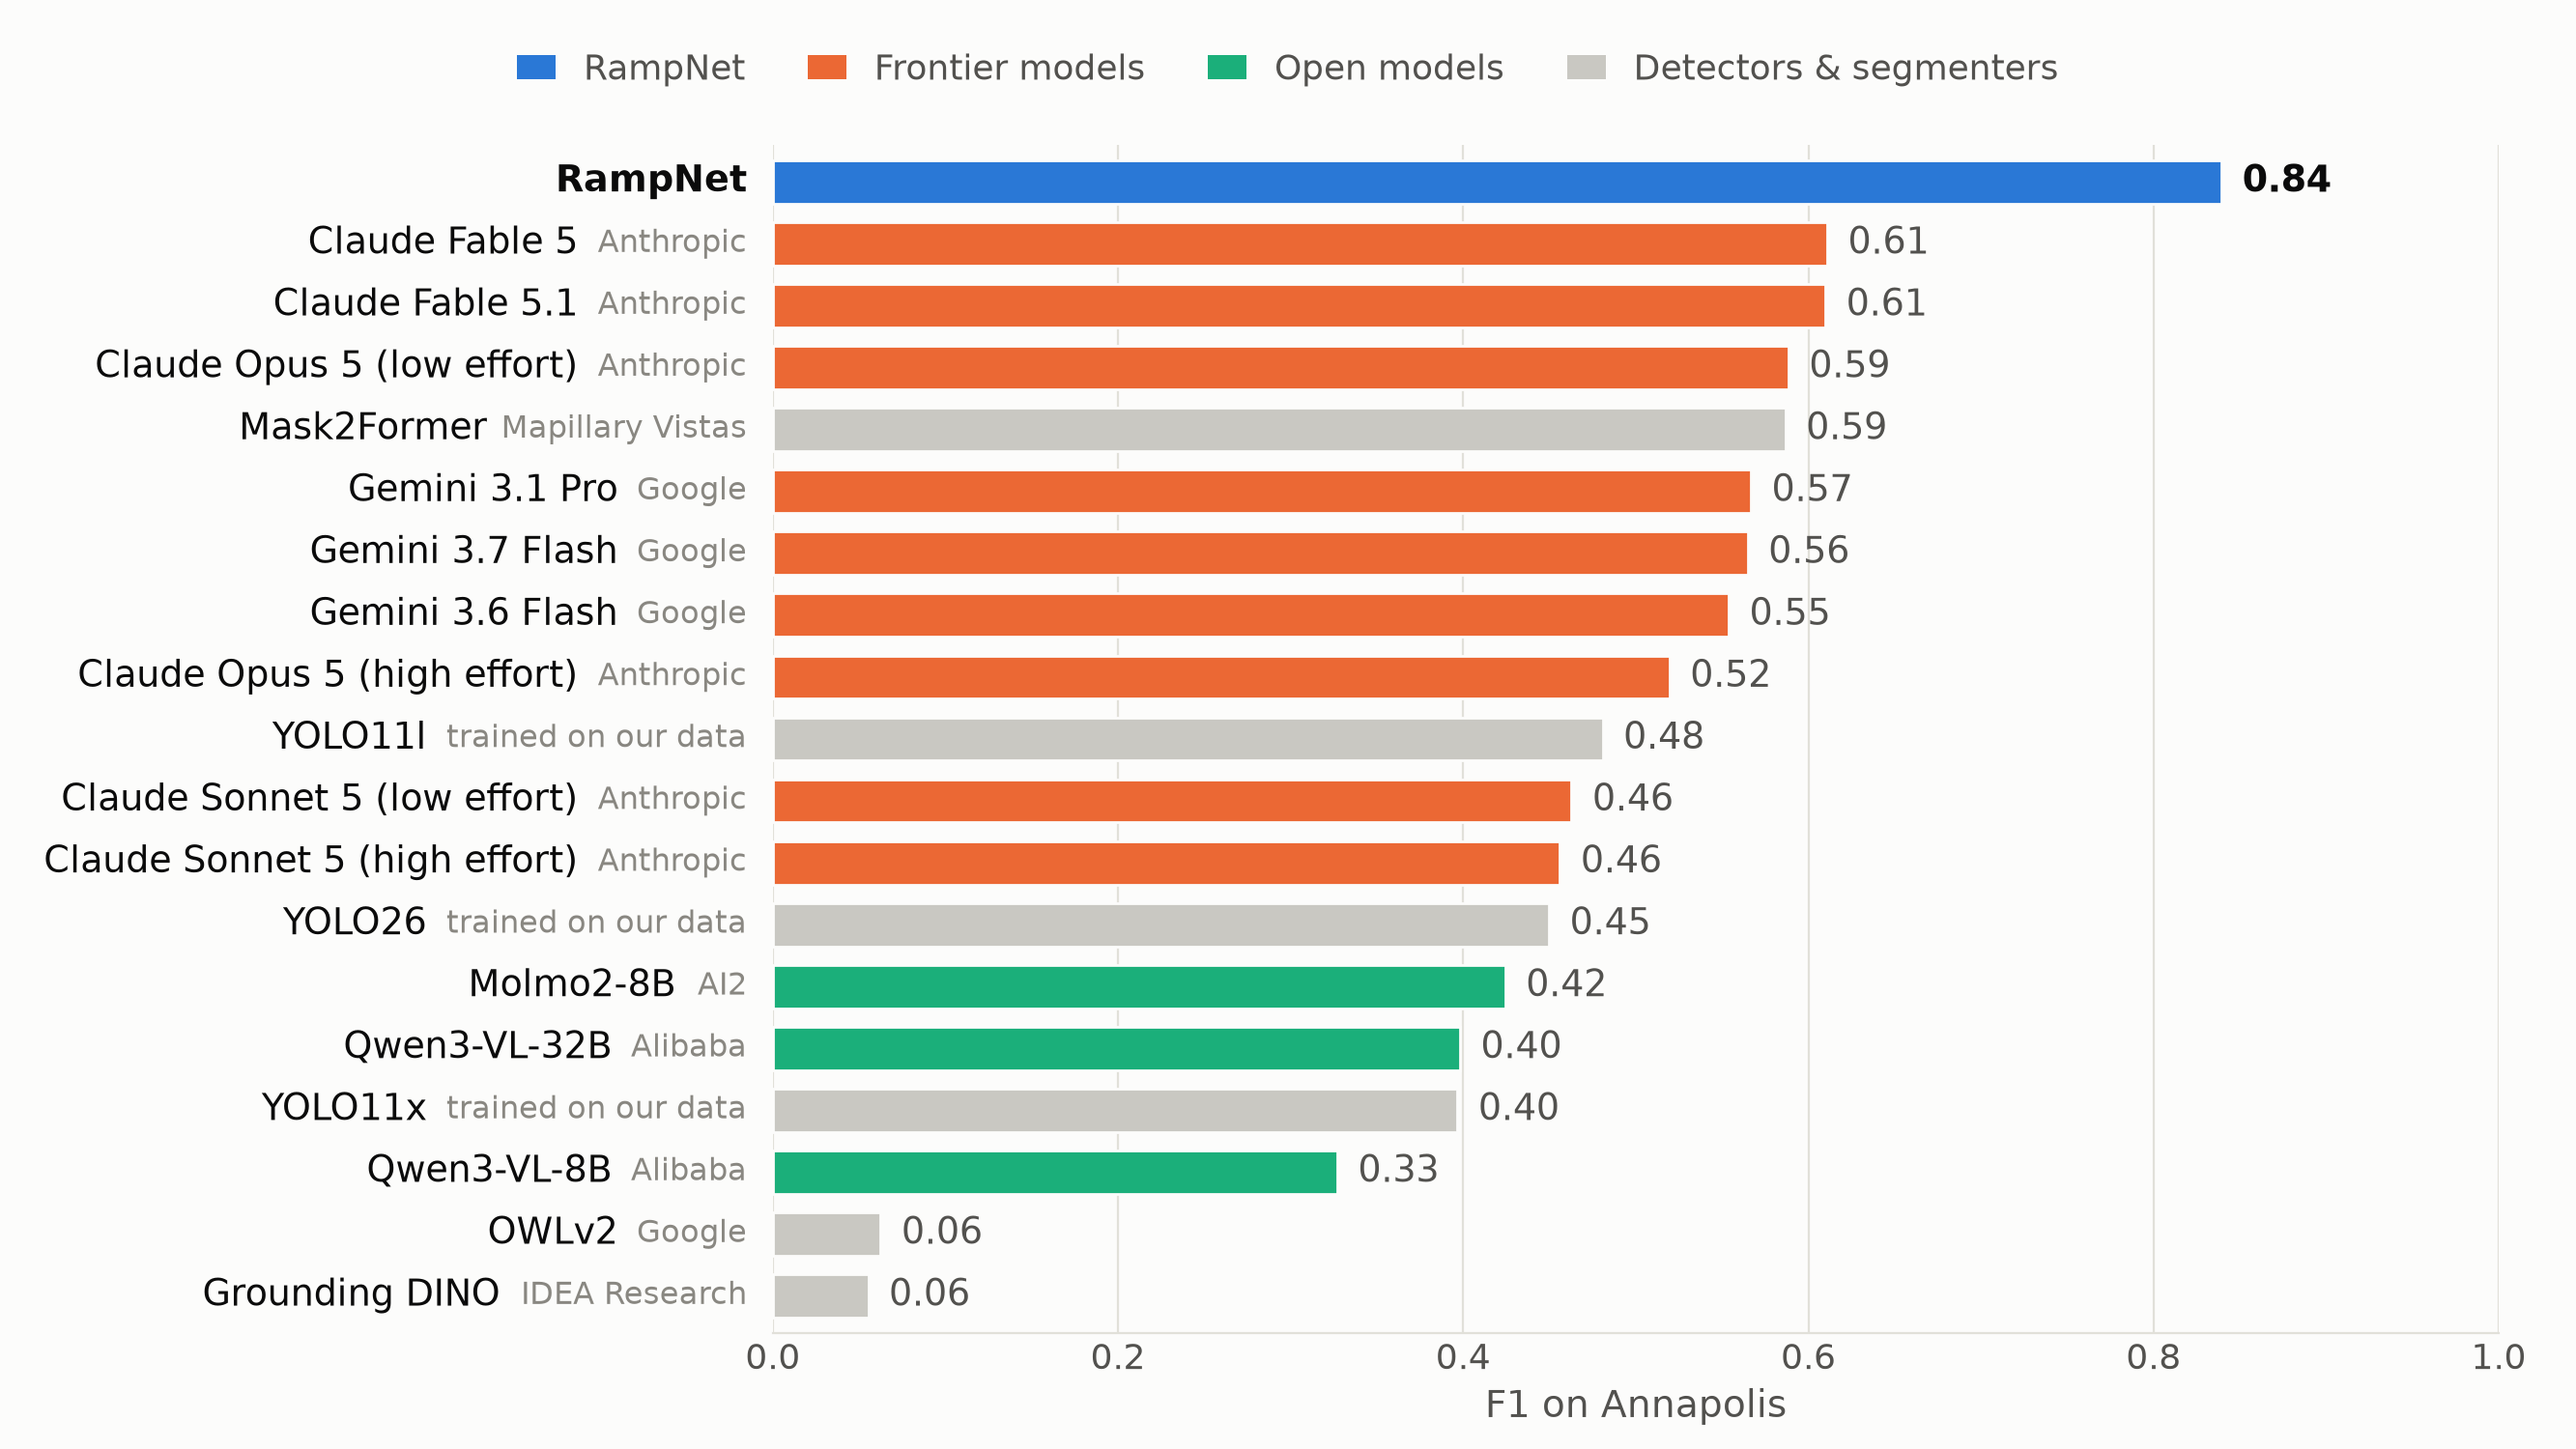
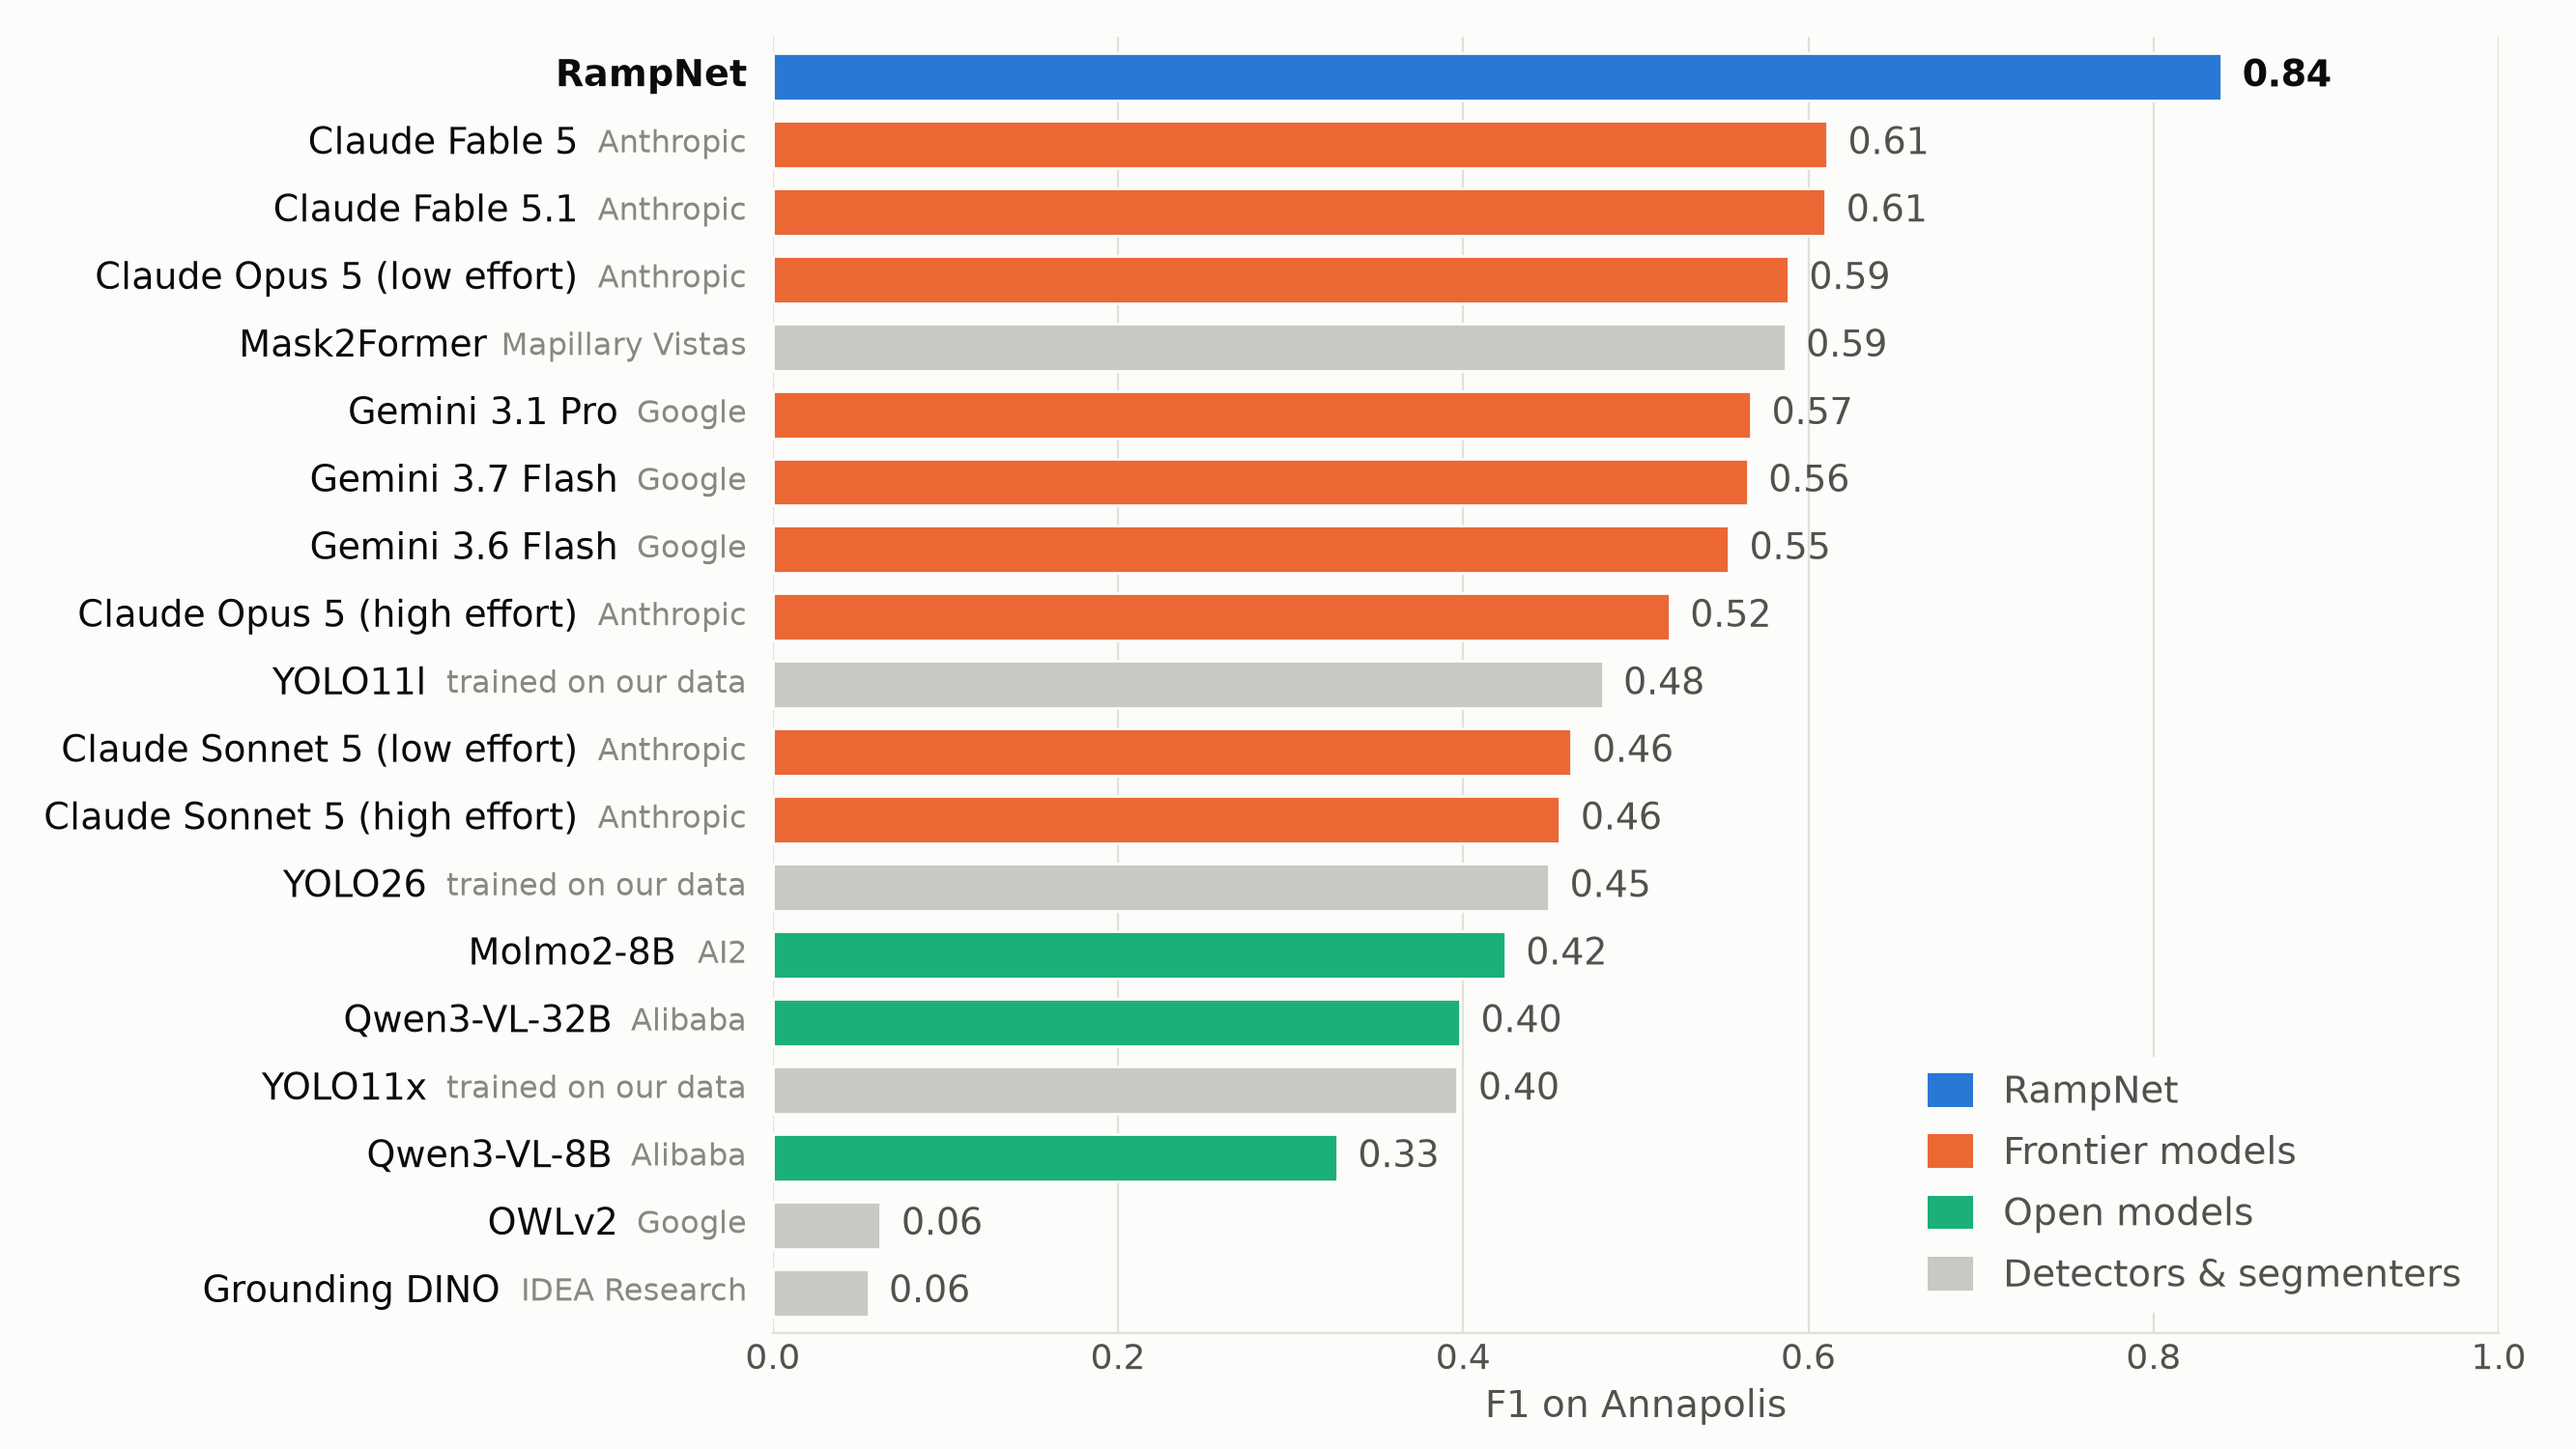
UChicago figures: legend stacked in the lower right; single-hue blue variant
Claude-Session: https://claude.ai/code/session_01X3eD3hDNQe6ZedrctnGGCN

diff --git a/scripts/talks/uchicago_2026_figures.py b/scripts/talks/uchicago_2026_figures.py
@@ -988,8 +988,11 @@ MINIMAL_COMPACT_DROP = {"claude-fable-5-effort-low-anthropic", "claude-opus-5-ef
                         "claude-sonnet-5-effort-high"}
 
 
-def fig_comparison_city_minimal(board, plt, split="annapolis", compact=False):
-    """fig_comparison_city with the words taken out: for a slide whose title says the rest."""
+def fig_comparison_city_minimal(board, plt, split="annapolis", compact=False, mono=False):
+    """fig_comparison_city with the words taken out: for a slide whose title says the rest.
+
+    ``mono``: every challenger bar one blue and RampNet a deeper blue, no legend; the maker
+    text carries the grouping on its own."""
     from matplotlib.patches import Patch
 
     colour = {g: c for g, c, _ in MINIMAL_GROUPS}
@@ -1007,10 +1010,14 @@ def fig_comparison_city_minimal(board, plt, split="annapolis", compact=False):
 
     n = len(rows)
     fig, ax = _hbar_frame(plt, n)
-    fig.subplots_adjust(left=0.30, right=0.97, top=0.90 if n > 15 else 0.89, bottom=0.08)
+    fig.subplots_adjust(left=0.30, right=0.97, top=0.975, bottom=0.08)
     groups = [label(m)[2] for _, m in rows]
+    if mono:
+        fills = [BLUE_DEEP if m == "rampnet" else BLUE for _, m in rows]
+    else:
+        fills = [colour[g] for g in groups]
     bars = ax.barh(range(n), [f for f, _ in rows], height=0.7, zorder=3,
-                   color=[colour[g] for g in groups], edgecolor=SURFACE, linewidth=1)
+                   color=fills, edgecolor=SURFACE, linewidth=1)
     fs = 15 if n <= 16 else 13.5
     for i, (bar, (f, m)) in enumerate(zip(bars, rows)):
         ref = m == "rampnet"
@@ -1033,11 +1040,17 @@ def fig_comparison_city_minimal(board, plt, split="annapolis", compact=False):
         x0 = inv.transform((t.get_window_extent(renderer).x0, 0))[0] if not ref else -0.015
         ax.text(x0 - (0.012 if not ref else 0), y_ax, name, transform=ax.transAxes, ha="right",
                 va="center", fontsize=fs, color=INK, fontweight="bold" if ref else "normal")
-    handles = [Patch(facecolor=c, label=l) for g, c, l in MINIMAL_GROUPS]
-    fig.legend(handles=handles, loc="upper center", ncol=4, frameon=False, fontsize=13,
-               bbox_to_anchor=(0.5, 0.985), handlelength=1.1, columnspacing=1.8,
-               labelcolor=INK_SECONDARY)
-    _save(fig, f"comparison_f1_{split}_minimal{'_compact' if compact else ''}.png")
+    if not mono:
+        # Stacked in the empty lower right (short bars there), on a surface-coloured box so the
+        # gridlines do not run through it.
+        handles = [Patch(facecolor=c, label=l) for g, c, l in MINIMAL_GROUPS]
+        leg = ax.legend(handles=handles, loc="lower right", ncol=1, fontsize=14,
+                        frameon=True, facecolor=SURFACE, edgecolor=SURFACE, framealpha=1,
+                        handlelength=1.2, handleheight=1.0, labelspacing=0.6,
+                        borderaxespad=0.6, labelcolor=INK_SECONDARY)
+        leg.set_zorder(5)
+    suffix = ("_compact" if compact else "") + ("_blue" if mono else "")
+    _save(fig, f"comparison_f1_{split}_minimal{suffix}.png")
     plt.close(fig)
 
 
@@ -1156,6 +1169,8 @@ FIGURES = {
     "comparison_gold": lambda board, plt, _: fig_comparison_gold(board, plt),
     "comparison_annapolis": lambda board, plt, _: fig_comparison_city(board, plt),
     "comparison_annapolis_minimal": lambda board, plt, _: fig_comparison_city_minimal(board, plt),
+    "comparison_annapolis_minimal_blue":
+        lambda board, plt, _: fig_comparison_city_minimal(board, plt, mono=True),
     "comparison_annapolis_minimal_compact":
         lambda board, plt, _: fig_comparison_city_minimal(board, plt, compact=True),
     "transfer": lambda board, plt, _: fig_transfer(board, plt),

diff --git a/docs/talks/uchicago_2026/README.md b/docs/talks/uchicago_2026/README.md
@@ -130,7 +130,7 @@ including the Claude Fable 5 / 5.1, Opus 5 and Sonnet 5 legs).
 title: no title or footnote, each row "model  maker", bars coloured RampNet / frontier (Anthropic,
 Google) / open (AI2, Alibaba) / detectors and segmenters (grey). `_minimal_compact.png` keeps one
 row per model: Fable 5.1 over Fable 5, and the better effort of Opus 5 and Sonnet 5 (low, both),
-so 16 rows. The three hues are the reference palette's first three slots, which pass
+so 16 rows. `_minimal_blue.png` drops the grouping: every challenger one blue, RampNet a deeper blue, no legend. The three hues are the reference palette's first three slots, which pass
 `validate_palette.js --pairs all`; a fourth hue fails CVD separation against blue.
 
 Why `manual_gold` is not in the pooled bar: the scoreboard holds it out as the in-distribution
@@ -262,7 +262,7 @@ Four SVGs (PowerPoint imports them as editable shapes) with PNG renders, from
 | `comparison_pr.png` | 4 | `analysis_out/scoreboard.json` (`--only comparison_pr`) |
 | `comparison_f1_with_gold.png` | 4 | `analysis_out/scoreboard.json` (`--only comparison_gold`) |
 | `comparison_f1_annapolis.png` | 4 | `analysis_out/scoreboard.json` (`--only comparison_annapolis`) |
-| `comparison_f1_annapolis_minimal{,_compact}.png` | 4 | `analysis_out/scoreboard.json` (`--only comparison_annapolis_minimal[_compact]`) |
+| `comparison_f1_annapolis_minimal{,_blue,_compact}.png` | 4 | `analysis_out/scoreboard.json` (`--only comparison_annapolis_minimal`, `_blue`, `_compact`) |
 | `recall_by_distance.png` | 6 | `docs/detection_recall_analysis.md` §1–§2 (constants in the script) |
 | `timelapse/timelapse_*.jpg` | 8 | `timelapse/manifest_*.json`, `timelapse/heat_*.png` (GSV history via `uchicago_2026_timelapse.py fetch` + `infer`, GPU), Bend inventory |
 | `measure_chain.jpg` | 8 | `benchmark/richmond/{boxes.json,records.jsonl,panos/}`, `analysis_out/da3_calibration_101/rows_points.jsonl` (`--only measure`) |
